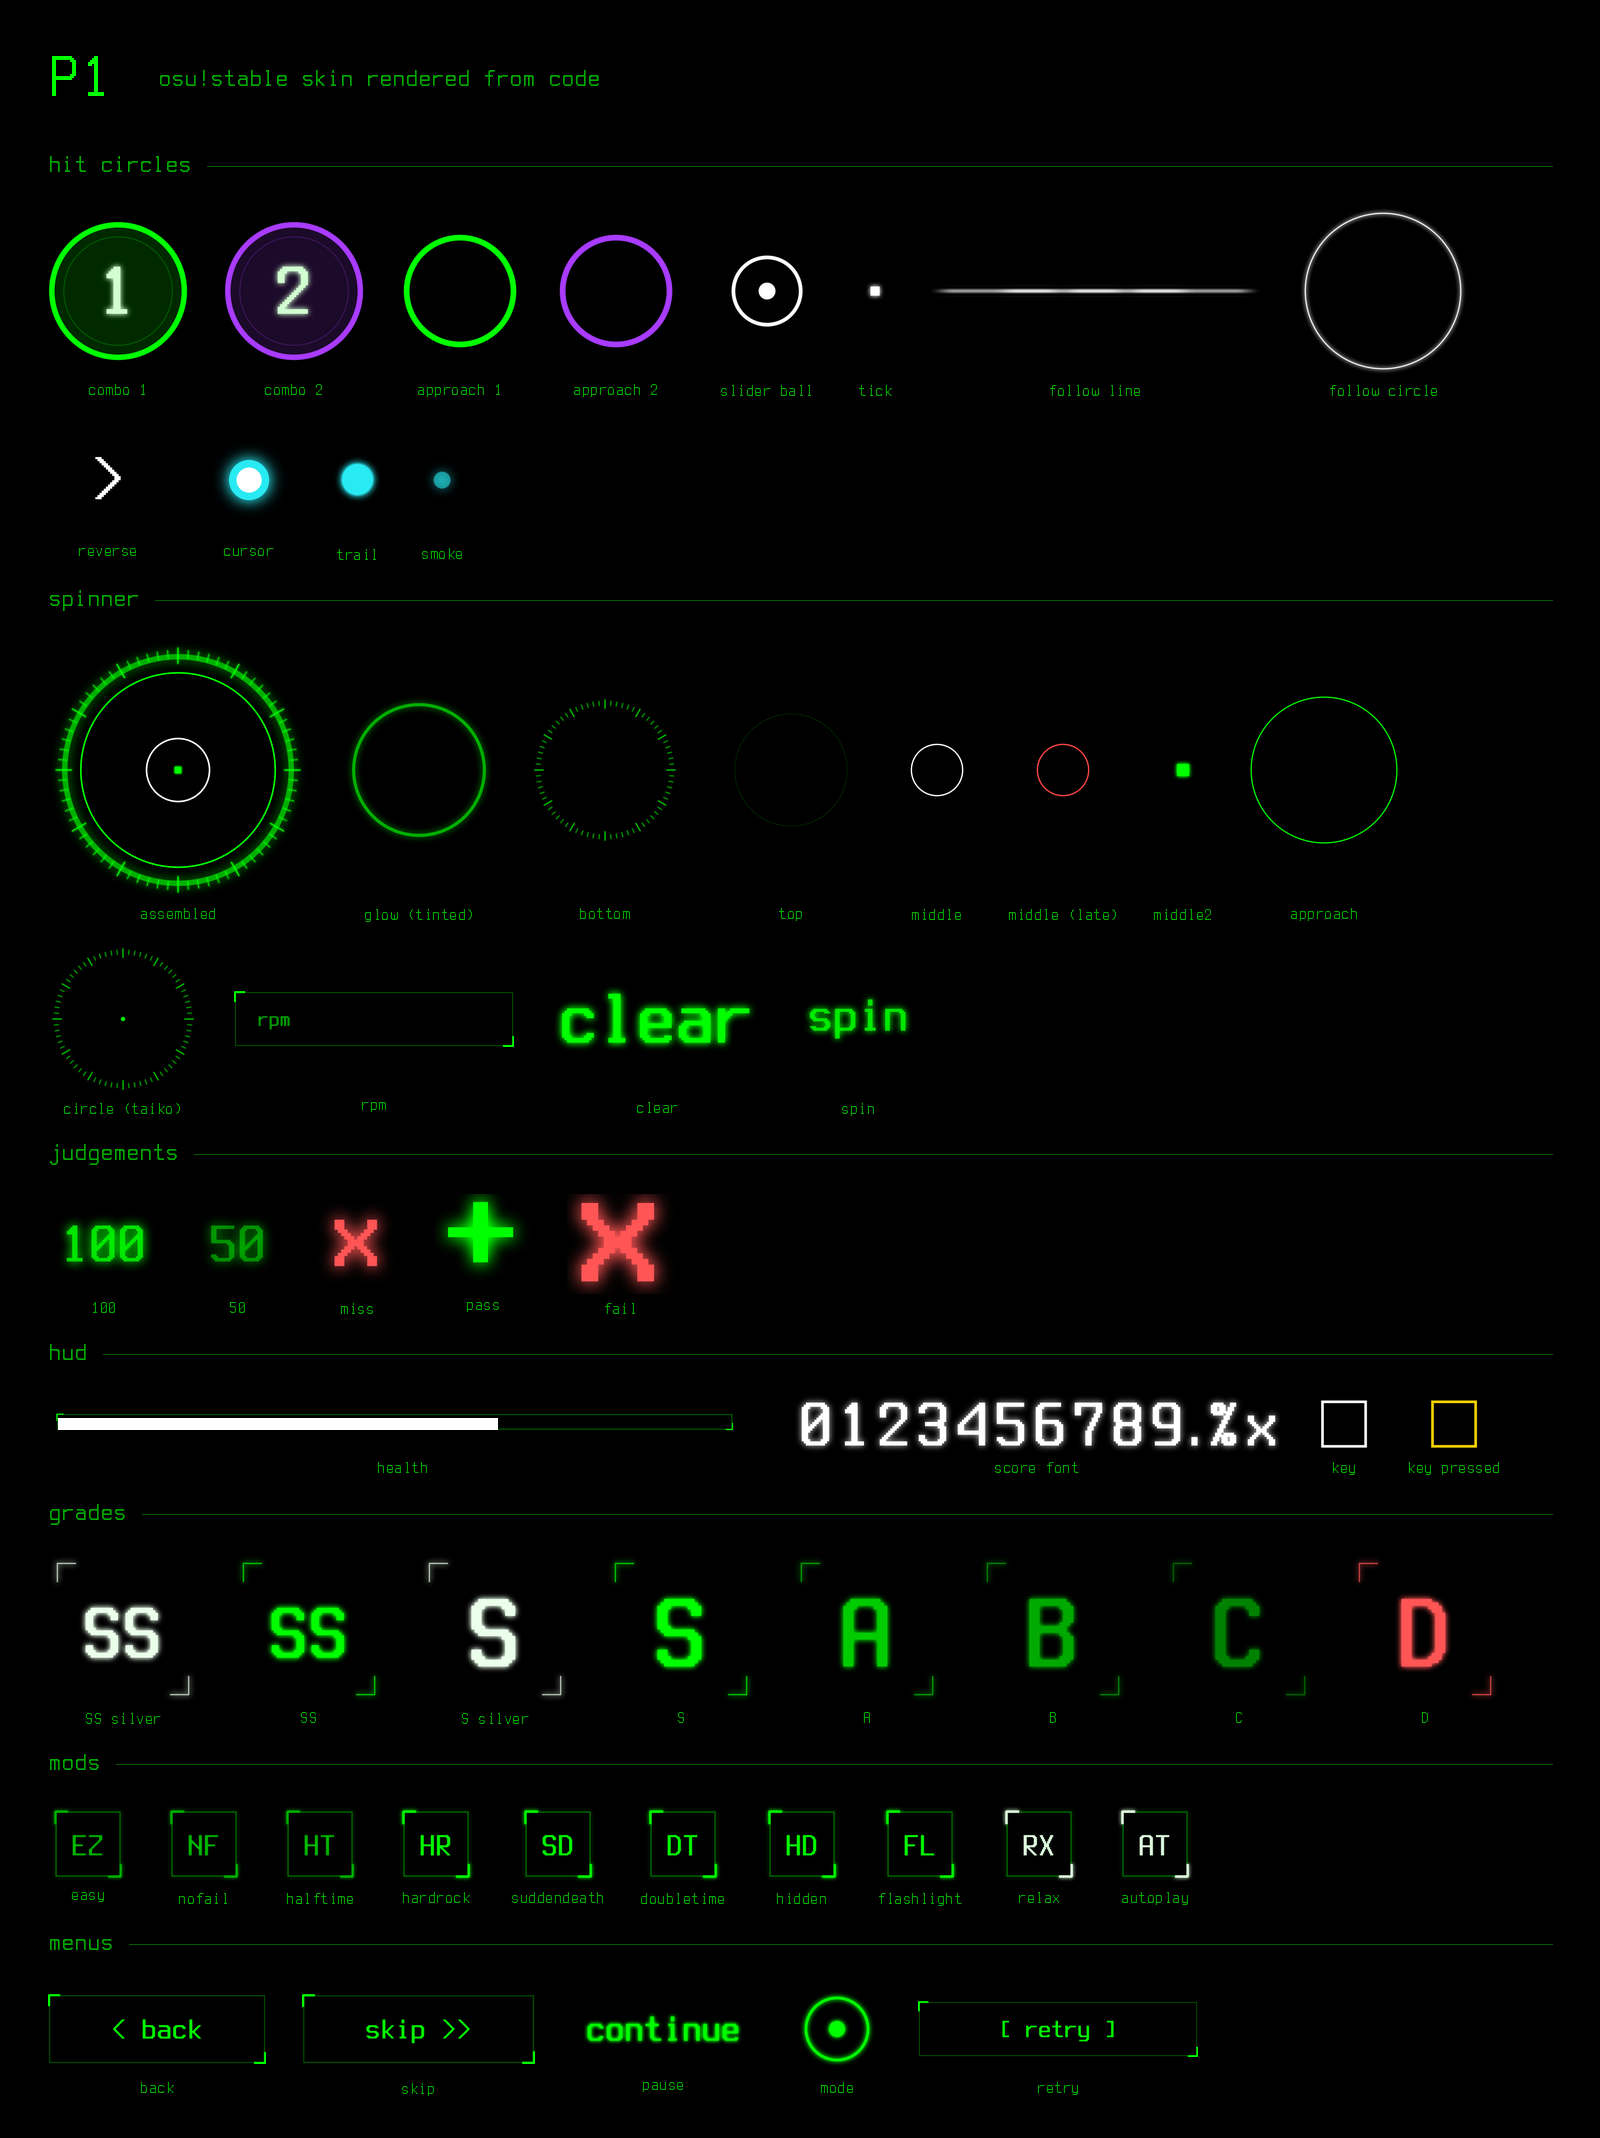
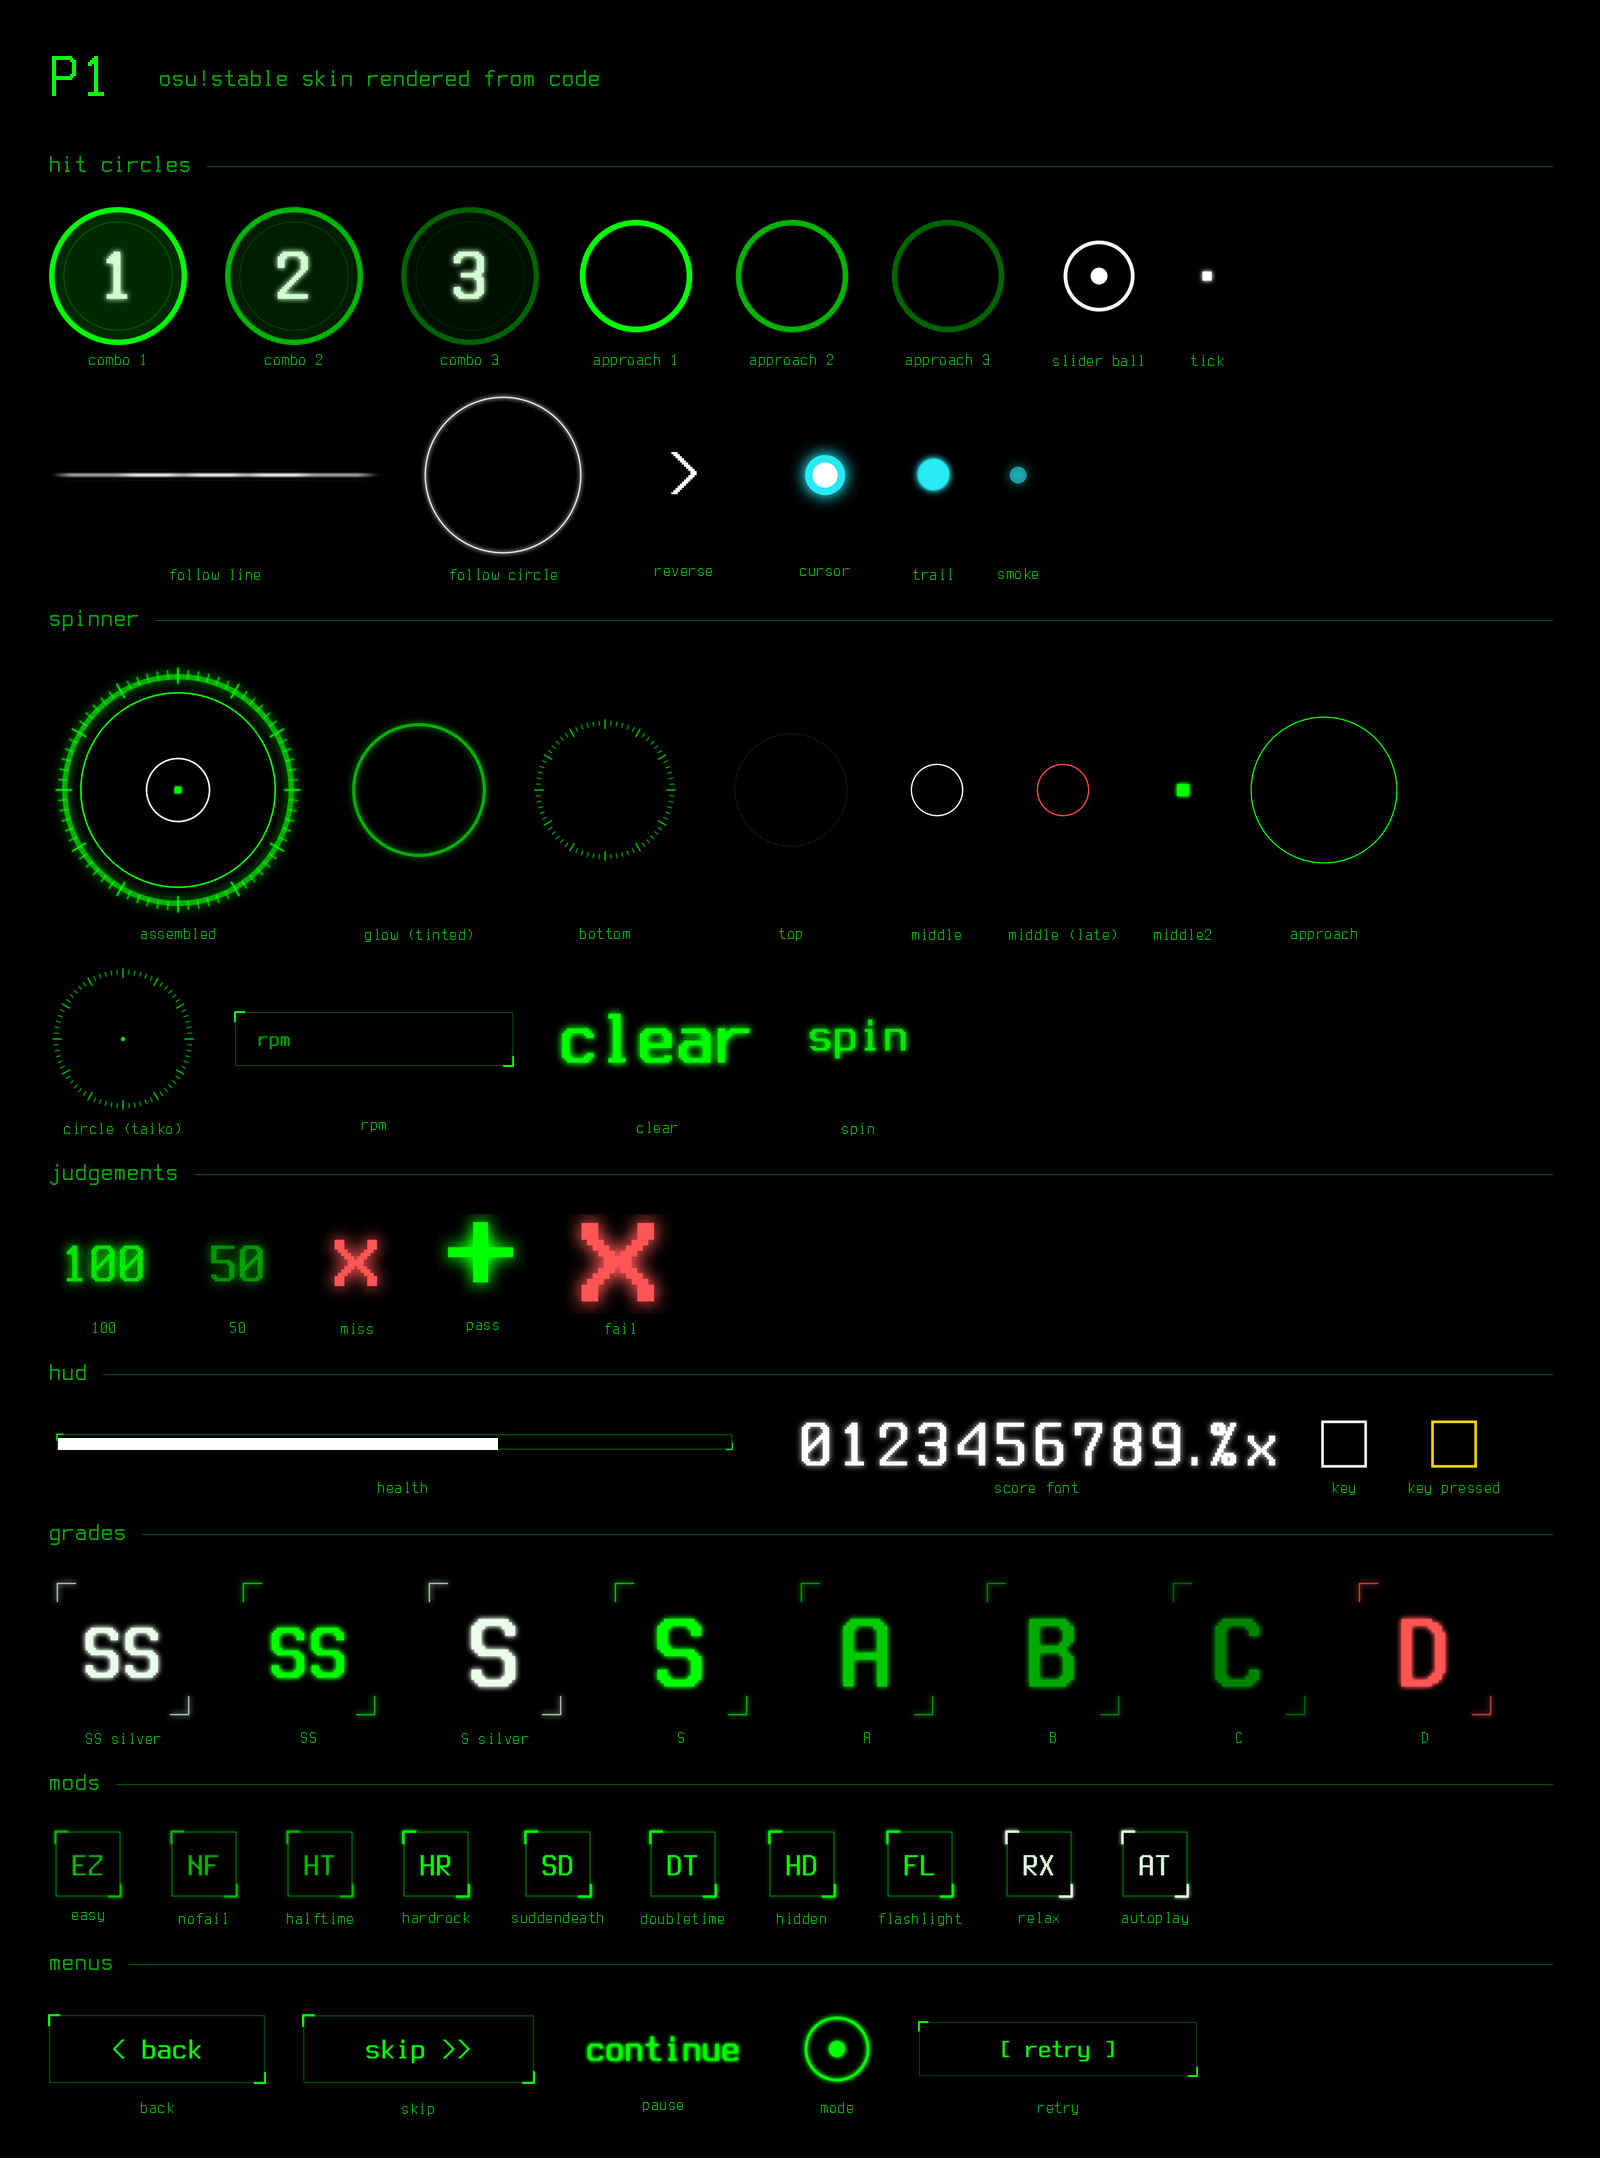
Combo colours back to three greens
behavior change: 0,255,0 / 0,180,0 / 0,100,0

diff --git a/gen.py b/gen.py
@@ -157,7 +157,7 @@ def hitcircles():
 
 def sliders():
     # Not tinted by the game (Normal blend), so one colour serves every combo:
-    # white stays neutral around green, pink and violet sliders.
+    # white stays neutral around every combo colour.
     s = C(256, 256)
     s.ring(128, 128, 118, 2, rgba(WHITE, 0.85))
     s.glow(3, 1.5)
@@ -648,7 +648,8 @@ SpinnerNoBlink: 1
 
 [Colours]
 Combo1: 0,255,0
-Combo2: 170,60,255
+Combo2: 0,180,0
+Combo3: 0,100,0
 InputOverlayText: 0,255,0
 MenuGlow: 0,255,0
 SliderBorder: 26,26,26

diff --git a/preview.py b/preview.py
@@ -15,7 +15,7 @@ from PIL import Image, ImageDraw, ImageFont
 
 W = 1600
 PAD = 48
-COMBOS = [(0, 255, 0), (170, 60, 255)]
+COMBOS = [(0, 255, 0), (0, 180, 0), (0, 100, 0)]
 LABEL = (0, 170, 0)
 DIM = (0, 90, 0)
 

diff --git a/README.md b/README.md
@@ -1,6 +1,6 @@
 # P1
 
-An osu!stable skin rendered from code. Black screen, a terminal font, phosphor green UI, combos alternating green and violet, and a cyan cursor. The name is the code for the classic green phosphor in old terminals and scopes.
+An osu!stable skin rendered from code. Black screen, a terminal font, phosphor green UI, combos in three greens, and a cyan cursor. The name is the code for the classic green phosphor in old terminals and scopes.
 
 ![P1 in gameplay](docs/gameplay.webp)
 
@@ -41,7 +41,7 @@ Rebuild into a fresh folder and replace the old one. Hidden elements are blank `
 * **4x supersampling.** Each element is drawn at four times its `@2x` size, then downsampled to `@2x` and `@1x`. Edges and thin rings come out smooth without a separate antialiasing pass.
 * **White where the game tints.** osu! multiplies hit circles, approach circles, input keys and song select cards by a colour at draw time. Those are drawn white or grey so the combo colour shows through unchanged. The slider ball, slider ticks and follow circle stay white: the follow circle is never tinted by stable, so all three match it.
 * **Hidden, not missing.** Lighting, particles, combo bursts, kiai fountains, the cursor ripple and the slider tail circle are 1x1 transparent images. A missing file falls back to the default skin, so hiding takes a file.
-* **Palette.** `#00ff00` with dim tiers for the UI; saturated combo colours alternating green `0,255,0` and violet `170,60,255`; cyan `40,234,242` for the cursor only; `#ff5555` for misses only. No combo uses cyan or red, so the cursor and misses always stand out.
+* **Palette.** `#00ff00` with dim tiers for the UI; combo colours in three greens, `0,255,0`, `0,180,0` and `0,100,0`; cyan `40,234,242` for the cursor only; `#ff5555` for misses only. No combo uses cyan or red, so the cursor and misses always stand out.
 
 ## Limits of stable skinning
 
